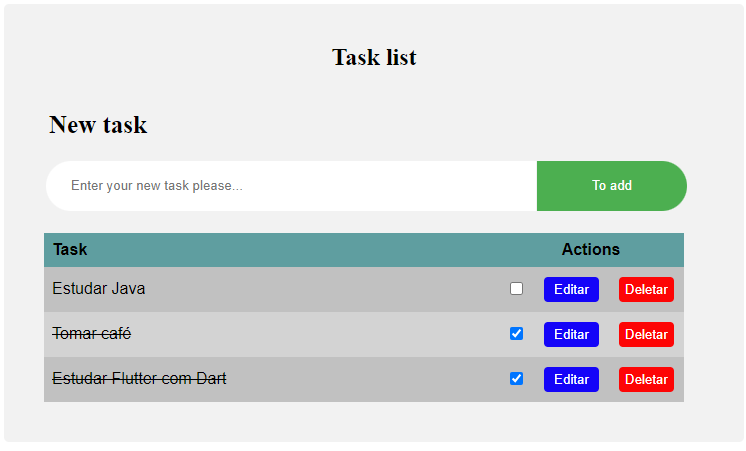
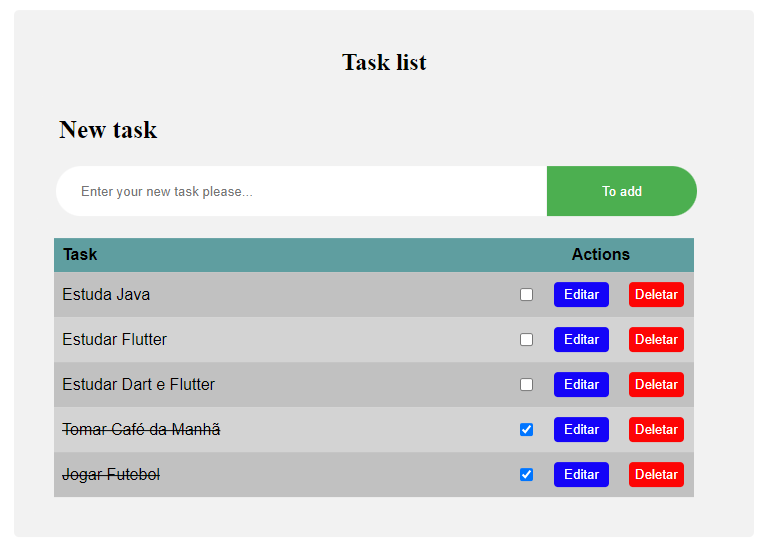
Alterando estilo e imagem

diff --git a/lista-tarefa/index.html b/lista-tarefa/index.html
@@ -11,8 +11,8 @@
             src="https://unpkg.com/sweetalert/dist/sweetalert.min.js"></script>
         <title>Task list</title>
     </head>
-    <body>
-        <div style="width: 700px;">
+    <body class="body">
+        <div class="child" style="width: 700px;">
             <h2 style="text-align: center;">Task list</h2>
             <div id="label_nova_tarefa">
                 <label for="input_nova_tarefa">New task</label>

diff --git a/lista-tarefa/assets/css/style.css b/lista-tarefa/assets/css/style.css
@@ -1,3 +1,16 @@
+.body {
+  display: flex;
+  justify-content: center;
+  align-items: center;
+}
+
+.child {
+  position: absolute;
+  top: 50%;
+  left: 50%;
+  transform: translate(-50%, -50%);
+}
+
 #label_nova_tarefa  {
   width:auto;
   margin-left: 5px;
